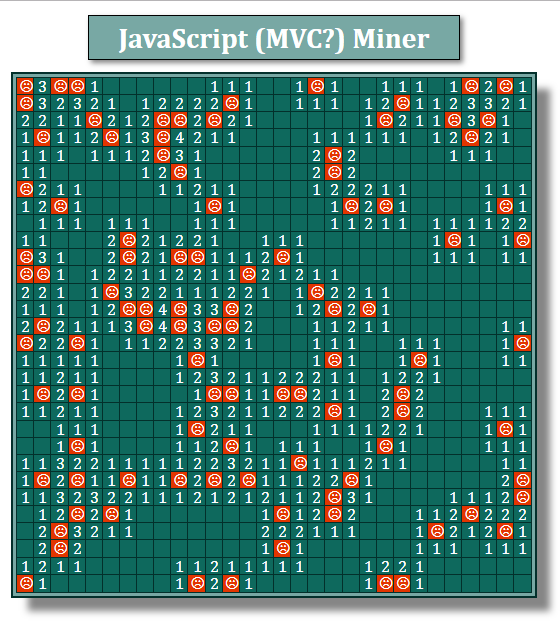
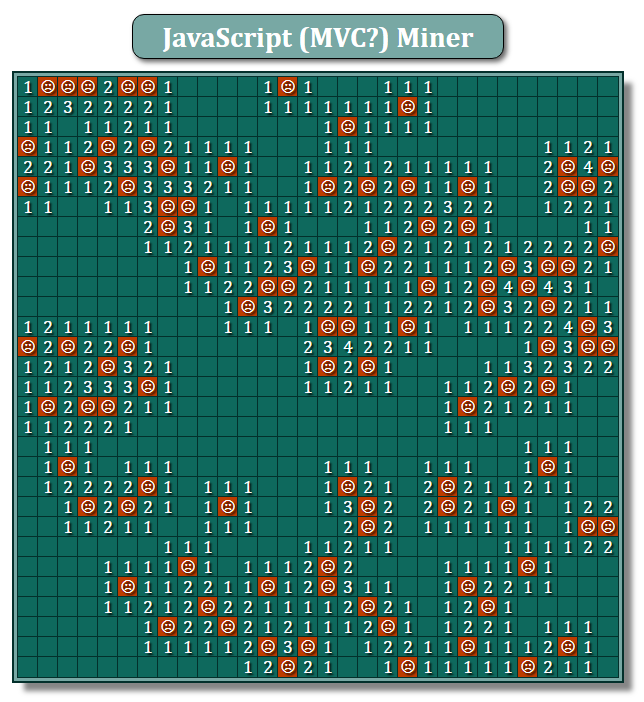
marking cells as mined feature and styles correction

diff --git a/script.js b/script.js
@@ -5,6 +5,7 @@ function Cell(x, y, hasMine = false, minesAroundAmount = 0) {
     this.y = y;
     this.hasMine = hasMine;
     this.minesAroundAmount = minesAroundAmount;
+    this.markedAsMined = false;
 }
 
 function Model(fieldWidth, fieldHeight, minesAmount) {
@@ -99,10 +100,13 @@ function Model(fieldWidth, fieldHeight, minesAmount) {
 
 
 function Controller() {
+    const introMessageEN = 'Hi! Use left mouse button to open cells and right button to mark cells as mined. The numbers in cells designite amount of mines that adjacent cells have.';
+    const introMessageRU = 'Привет! Используй левую клавишу мыши, чтобы открывать ячейки, и правую, чтобы помечать предположительно заминированные ячейки. Цифры в ячейках обозначают количество мин, находящихся в смежных ячейках.';
+    const introMessage = `${introMessageEN}\n\n${introMessageRU}\n\n`;
     if (DEBUG)
-        model = new Model(20, 20, 5);
+        model = new Model(14, 14, 12);
     else
-        model = new Model(Number(prompt('Enter field of play width (the minimum is 10):\nВведите ширину игрового поля: (минимум — 10)', '10')),
+        model = new Model(Number(prompt(introMessage + 'Enter field of play width (the minimum is 10):\nВведите ширину игрового поля: (минимум — 10)', '10')),
                     Number(prompt('Enter field of play height (the minimum is 10):\nВведите высоту игрового поля: (минимум — 10)', '10')),
                     Number(prompt('Enter mine amount (the minimum is 5):\nВведите количество мин: (минимум — 5)', '10')));
     model.fillField();
@@ -110,8 +114,12 @@ function Controller() {
     view = new View(model.field);
     view.stylizeAndScaleCells()
 
+    document.body.addEventListener('contextmenu', event => {
+        event.preventDefault();
+    })
+
     function openACell(cell, model) {
-        if (!model.gameIsOver) {
+        if (!model.gameIsOver && !cell.markedAsMined) {
             if (!cell.hasMine) model.openedCellsAmount++;
             if (model.openedCellsAmount == model.maxNotMinedOpenedCellsAmount) {
                 handleAWin(model);
@@ -150,15 +158,25 @@ function Controller() {
                     }
                 } while (cellsToReveal.length);
             });
+            cell.tag.addEventListener('contextmenu', event => {
+                markAsMined(cell);
+            })
         });
+    }
+
+    function markAsMined(cell) {
+        if (cell.tag.classList.contains('cell-covered')) {
+            cell.markedAsMined = !cell.markedAsMined;
+            cell.tag.classList.toggle('marked-as-mined');
+            cell.tag.setAttribute('character', view.markedAsMinedCharacter);
+        }
     }
 
     function handleAWin(model) {
         model.gameIsOver = true;
         model.minedCells.forEach(cell => {
-            cell.tag.innerText = view.WinMineCharacter;
-            cell.tag.style.backgroundColor = '#0d0';
-            cell.tag.style.fontWeight = 'bold';
+            cell.tag.innerText = view.winMineCharacter;
+            cell.tag.classList.add('cleared-up-after-win');
         });
         revealAllCells(model);
         alert('You\'ve won!!! Congratulations!\nУРАААААААААААА!!!');
@@ -176,6 +194,7 @@ function Controller() {
         for (let y = 0; y < model.field.length; y++) {
             model.field[y].forEach(cell => {
                 cell.tag.classList.remove('cell-covered');
+                cell.tag.classList.remove('marked-as-mined');
                 cell.tag.classList.add('cell-revealed');
                 if (cell.hasMine) {
                     cell.tag.classList.add('cell-mined');
@@ -197,8 +216,9 @@ function Controller() {
 
 function View(field) {
     this.fieldTag = document.getElementById('field');
-    const mineCharacter = '☹'
-    this.WinMineCharacter = '✔'
+    const mineCharacter = '☹';
+    this.winMineCharacter = '✔';
+    this.markedAsMinedCharacter = '👌'; // ⛳🚩👌
     this.theLongestFieldSide = field[0].length > field.length ? [field[0].length, 'wIsLonger'] : [field.length, 'hIsLonger'];
     if (field[0].length == field.length)
         this.theLongestFieldSide[1] = 'equal';
@@ -222,23 +242,25 @@ function View(field) {
         const offsetTop = this.fieldTag.offsetTop;
         const screenHeightFieldSpace = window.innerHeight - cellMargin - fieldPadding * 2 - fieldAdditionalMargin - offsetTop - this.theLongestFieldSide[0] * cellMargin;
         const screenWidthFieldSpace = window.innerWidth - cellMargin - fieldPadding * 2 - fieldAdditionalMargin - this.theLongestFieldSide[0] * cellMargin;
+        // When evaluated cell size is less, cell margin will be removed.
+        const noMarginModeCellMaxSize = 30;
         if (this.theLongestFieldSide[1] == 'equal') {
             if (userScreenProportions == 'wide') {
                 const result = screenHeightFieldSpace / this.theLongestFieldSide[0] - cellMargin;
                 // Remove cell margin if cells are small.
-                return (result > 18 || shouldRemoveCellMargin) ? result : this.getCellSize(oneOfcellTags, true);
+                return (result > noMarginModeCellMaxSize || shouldRemoveCellMargin) ? result : this.getCellSize(oneOfcellTags, true);
             } else {
                 const result = screenWidthFieldSpace / this.theLongestFieldSide[0] - cellMargin;
-                return (result > 18 || shouldRemoveCellMargin) ? result : this.getCellSize(oneOfcellTags, true);
+                return (result > noMarginModeCellMaxSize || shouldRemoveCellMargin) ? result : this.getCellSize(oneOfcellTags, true);
             }
         }
         else if (this.theLongestFieldSide[1] == 'wIsLonger') {
             result = screenWidthFieldSpace / this.theLongestFieldSide[0] - cellMargin;
-            return (result > 18 || shouldRemoveCellMargin) ? result : this.getCellSize(oneOfcellTags, true);
+            return (result > noMarginModeCellMaxSize || shouldRemoveCellMargin) ? result : this.getCellSize(oneOfcellTags, true);
         }
         else {
             const result = screenHeightFieldSpace / this.theLongestFieldSide[0] - cellMargin;
-            return (result > 18 || shouldRemoveCellMargin) ? result : this.getCellSize(oneOfcellTags, true);
+            return (result > noMarginModeCellMaxSize || shouldRemoveCellMargin) ? result : this.getCellSize(oneOfcellTags, true);
         }
     }
 
@@ -259,35 +281,29 @@ function View(field) {
     }
 
     this.stylizeAndScaleCells = () => {
-        const cellSize = this.getCellSize(field[0][0].tag, false);
+        const minCellSize = 20;
+        let cellSize = this.getCellSize(field[0][0].tag, false);
+        if (cellSize < minCellSize)
+            cellSize = minCellSize;
         const cellPadding = Number(getComputedStyle(field[0][0].tag).padding.slice(0, -2));
-        const lineHeightAdditionalOffset = 2;
+        const rowsTransitionRatio = 4;
+        const fontScaleDownRatio = 1;
         for (let y = 0; y < field.length; y++) {
             for (let x = 0; x < field[y].length; x++) {
                 field[y][x].tag.style.height = field[y][x].tag.style.width = cellSize + 'px';
-                field[y][x].tag.style.lineHeight = cellSize - lineHeightAdditionalOffset * cellPadding + 'px';
-                field[y][x].tag.style.fontSize = cellSize + 'px';
-                field[y][x].tag.style.transitionDelay = (y / (field.length / 2) * this.theLongestFieldSide[0] + x) / 40 + 's';
+                field[y][x].tag.style.lineHeight = cellSize - cellPadding + 'px';
+                field[y][x].tag.style.fontSize = (cellSize - cellPadding) * fontScaleDownRatio + 'px';
+                field[y][x].tag.style.transitionDelay = (y / (field.length / rowsTransitionRatio) * this.theLongestFieldSide[0] + x) / 40 + 's';
                 field[y][x].tag.classList.add('cell-appeared');
-
-                if (field[y][x].hasMine) {
-                    /*
-                    Resize the mined cells font size if they look too large. Now ☹ looks OK.
-                    But when cells are too small there are problems with characters alignment.
-                    */
-                    const cellSizeToFontSizeRatio = 1;
-                    const fontSize = getComputedStyle(field[y][x].tag).fontSize.slice(0, -2);
-                    field[y][x].tag.style.fontSize = fontSize * cellSizeToFontSizeRatio + 'px';
-                }
             }
         }
-        // Reset transition delay.
+        // Reset transition delay after initial transition.
         const initialAnimationDelay = 3;
         setTimeout(() => {
         for (let y = 0; y < field.length; y++) {
             for (let x = 0; x < field[y].length; x++) {
                 field[y][x].tag.style.transitionDelay = '0s';
-                field[y][x].tag.style.transitionDuration = '.9s';
+                field[y][x].tag.style.transitionDuration = '.5s';
             }
         }
         }, (initialAnimationDelay));

diff --git a/style.css b/style.css
@@ -7,7 +7,7 @@ body {
 
 #field {
     margin: 0 auto;
-    box-shadow: 15px 15px 7px rgb(134, 134, 134);
+    box-shadow: 10px 10px 5px rgb(134, 134, 134);
     display: inline-block;
     padding: 4px;
     background-color: rgb(120, 168, 164);
@@ -28,7 +28,8 @@ h1 {
     border: 1px solid black;
     margin: 0;
     padding: 5px 30px;
-    box-shadow: 3px 3px 5px rgb(134, 134, 134);
+    box-shadow: 3px 3px 5px rgb(102, 102, 102);
+    border-radius: 12px;
 }
 
 .field-row {
@@ -38,13 +39,14 @@ h1 {
 }
 
 .cell {
-    min-width: 17px;
-    min-height: 17px;
+    display: flex;
+    align-items: center;
+    justify-content: center;
+    position: relative;
     box-sizing: border-box;
     -moz-user-select: none;
     -khtml-user-select: none;
     user-select: none;
-    display: inline-block;
     outline: 1px solid rgb(3, 48, 43);
     margin: 2px;
     padding: 2px;
@@ -54,8 +56,33 @@ h1 {
     opacity: 0;
     transform: translate(-50%, -140%) rotate(-45deg);
     transition-duration: .8s;
-    transition-property: opacity, transform, background-color, color;
+    transition-property: opacity, transform, background-color, color, text-shadow, outline-color;
     transform-origin: center;
+}
+
+/* Pseudo-element for marking cell as mined, initially hidden */
+.cell::before {
+    content: attr(character);
+    color: white;
+    font-size: 90%;
+    width: 100%;
+    height: 100%;
+    text-shadow: 2px 2px 2px rgb(0, 0, 0);
+    position: absolute;
+    display: flex;
+    align-items: center;
+    justify-content: center;
+    top: 0;
+    left: 0;
+    opacity: 0;
+    transition: all .2s;
+    transform: scale(0);
+}
+
+/* and visible when has the css class */
+.marked-as-mined::before {
+    opacity: 1;
+    transform: scale(1);
 }
 
 .cell-appeared {
@@ -64,19 +91,25 @@ h1 {
 }
 
 .cell-covered {
-    background-color: rgb(16, 207, 175);
+    background-color: rgb(88, 214, 176);
 }
 
-.cell-covered:hover {
-    background-color: rgb(80, 255, 217);
+.cell-covered:not(.marked-as-mined):hover {
+    background-color: rgb(30, 255, 206);
     outline-color: white;
 }
 
 .cell-revealed {
     color: white;
     background-color: rgb(14, 105, 93);
+    text-shadow: 2px 2px 2px rgb(0, 0, 0);
 }
 
 .cell-mined {
-    background-color: rgb(226, 53, 0);
+    background-color: rgb(189, 60, 0);
+}
+
+.cleared-up-after-win {
+    background-color: rgb(0, 182, 0);
+    font-weight: 'bold';
 }

diff --git a/readme.md b/readme.md
@@ -1,21 +1,31 @@
-# This is a scalable JavaScript Miner with a kind of MVC architecture
+# Miner Logic Game JavaScript Implementation
 
-## default input settings and a win: 10 width, 10 height, 10 mines
+This is a scalable JavaScript Miner with a kind of MVC architecture and no side libraries are used. It classic Miner, so mines are located before the user would try to open a cell. The cell size is evaluated according to user screen size, screen proportions and playing area proportions.
+
+Click left mouse button to reveal cells and right button to mark cells as mined. When debug is true, spacebar can be pressed to reveal all cells.
+
+## Demo
+
+default input settings and a win: 10 width, 10 height, 10 mines:
 
 ![default input settings: 10 width, 10 height, 10 mines](<https://github.com/LaHesis/JavaScript-Miner/raw/master/demo/10 10 10 default win.png>)
 
-## 10 width, 25 height, 30 mines
+10 width, 25 height, 30 mines:
 
 ![10 width, 25 height, 30 mines](<https://github.com/LaHesis/JavaScript-Miner/raw/master/demo/10 25 30.png>)
 
-## 30 width, 30 height, 100 mines
+30 width, 30 height, 100 mines:
 
 ![30 width, 30 height, 100 mines](<https://github.com/LaHesis/JavaScript-Miner/raw/master/demo/30 30 100.png>)
 
-## 30 width, 30 height, 100 mines, loss
+30 width, 30 height, 100 mines, loss:
 
 ![30 width, 30 height, 100 mines, loss](<https://github.com/LaHesis/JavaScript-Miner/raw/master/demo/30 30 100 loss.png>)
 
-## 40 width, 10 height, 40 mines
+40 width, 10 height, 40 mines:
 
 ![40 width, 10 height, 40 mines](<https://github.com/LaHesis/JavaScript-Miner/raw/master/demo/40 10 40.png>)
+
+14 width, 10 height, 12 mines, player uses mine marks:
+
+![14 10 12 player uses mine marks](<https://github.com/LaHesis/JavaScript-Miner/raw/master/demo/14 10 12 player uses mine marks.png>)
